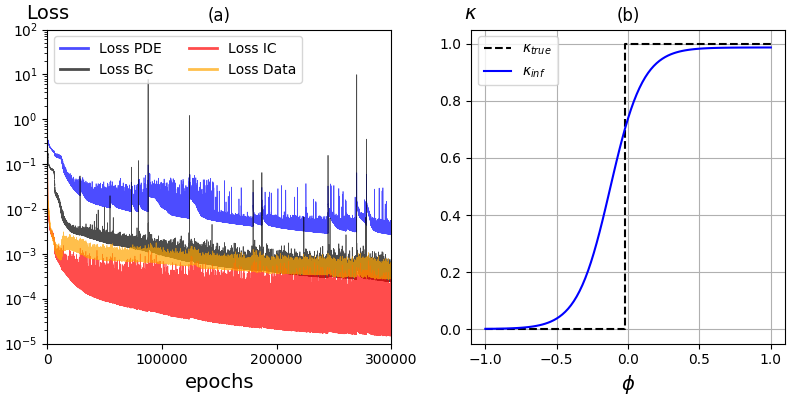
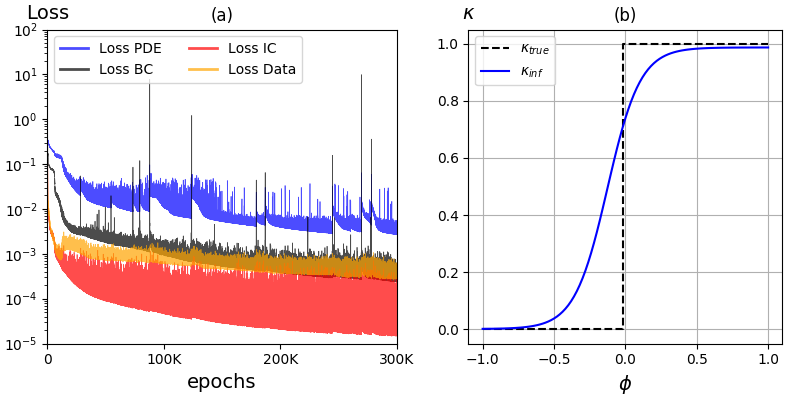
.

diff --git a/Thrombus/Plot/membrane/plot_his.py b/Thrombus/Plot/membrane/plot_his.py
@@ -22,6 +22,7 @@ def main():
     ax1.set_ylim([1e-6, 1e2])
     ax1.set_xlim([0, 900000])
     ax1.set_xticks(np.linspace(0, 900000, 4))
+    ax1.set_xticklabels(['0', '300K', '600K', '900K'])
     ax1.set_title('(b)')
     ax1.yaxis.set_label_coords(0.0,1.02)
     leg = ax1.legend()
@@ -36,8 +37,10 @@ def main():
     ax2.set_xlabel('epochs', fontsize=18)
     ax2.set_ylabel('$\lambda_{e}$', fontsize=18, rotation="horizontal")
     ax2.set_xlim([0, 900000])
+    
     ax2.set_ylim([0, 20])
     ax2.set_xticks(np.linspace(0, 900000, 4))
+    ax2.set_xticklabels(['0', '300K', '600K', '900K'])
     ax2.set_title('(c)')
     ax2.legend()
     ax2.yaxis.set_label_coords(0.0,1.02)

diff --git a/Thrombus/Plot/K_phi/fig_7.py b/Thrombus/Plot/K_phi/fig_7.py
@@ -150,6 +150,7 @@ def main():
     ax1.set_yscale('log')
     ax1.set_title('(a)')
     ax1.set_xticks(np.linspace(0, 300000, 4))
+    ax1.set_xticklabels(['0', '100K', '200K', '300K'])
     ax1.set_xlim([0, 300000])
     ax1.set_ylim([1e-5, 1e2])
     # ax1.set_aspect((300000/1000), adjustable='box')
